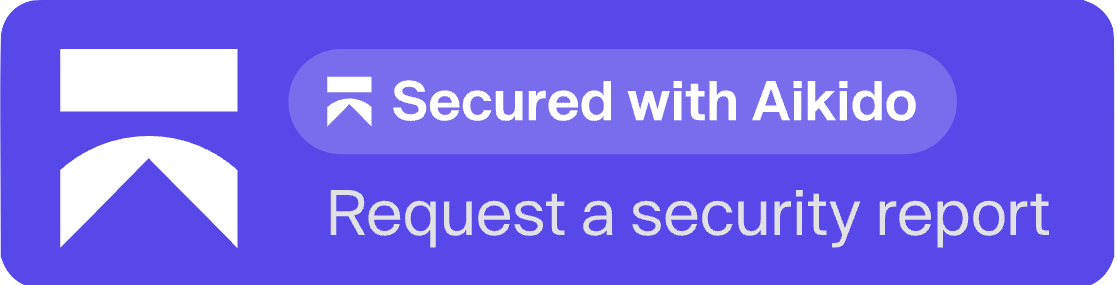
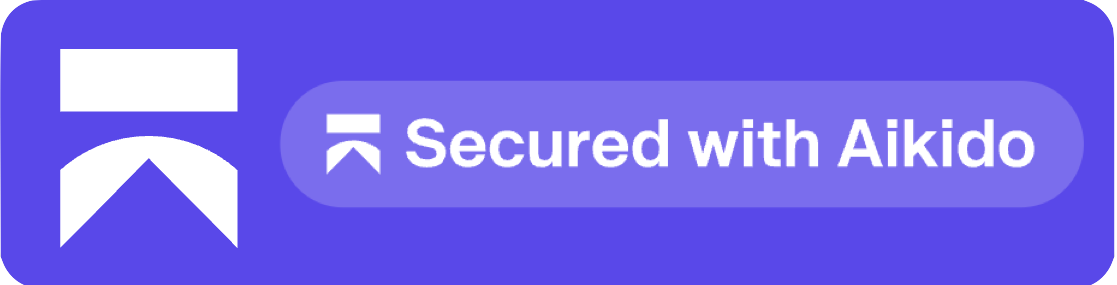
Remove link from aikido report

diff --git a/README.md b/README.md
@@ -103,7 +103,7 @@ Here are a few projects that we think you might like:
   <div dir="auto">
     <a href="https://news.ycombinator.com/item?id=44247964" target="_blank"><img src=".github/resources/hackernews_badge.svg" width="250px" alt="hackernews badge"></a>
     &nbsp;
-    <a href="https://app.aikido.dev/audit-report/external/NzayAUgNoqiMuiy7p7yNvI0U/request" target="_blank"><img src=".github/resources/aikido-badge.png" alt="Aikido Security Audit Report" height="58" /></a>
+    <span><img src=".github/resources/aikido-badge.png" alt="Aikido Security Audit Report" height="58" /></span>
   </div>
 </div>
 
